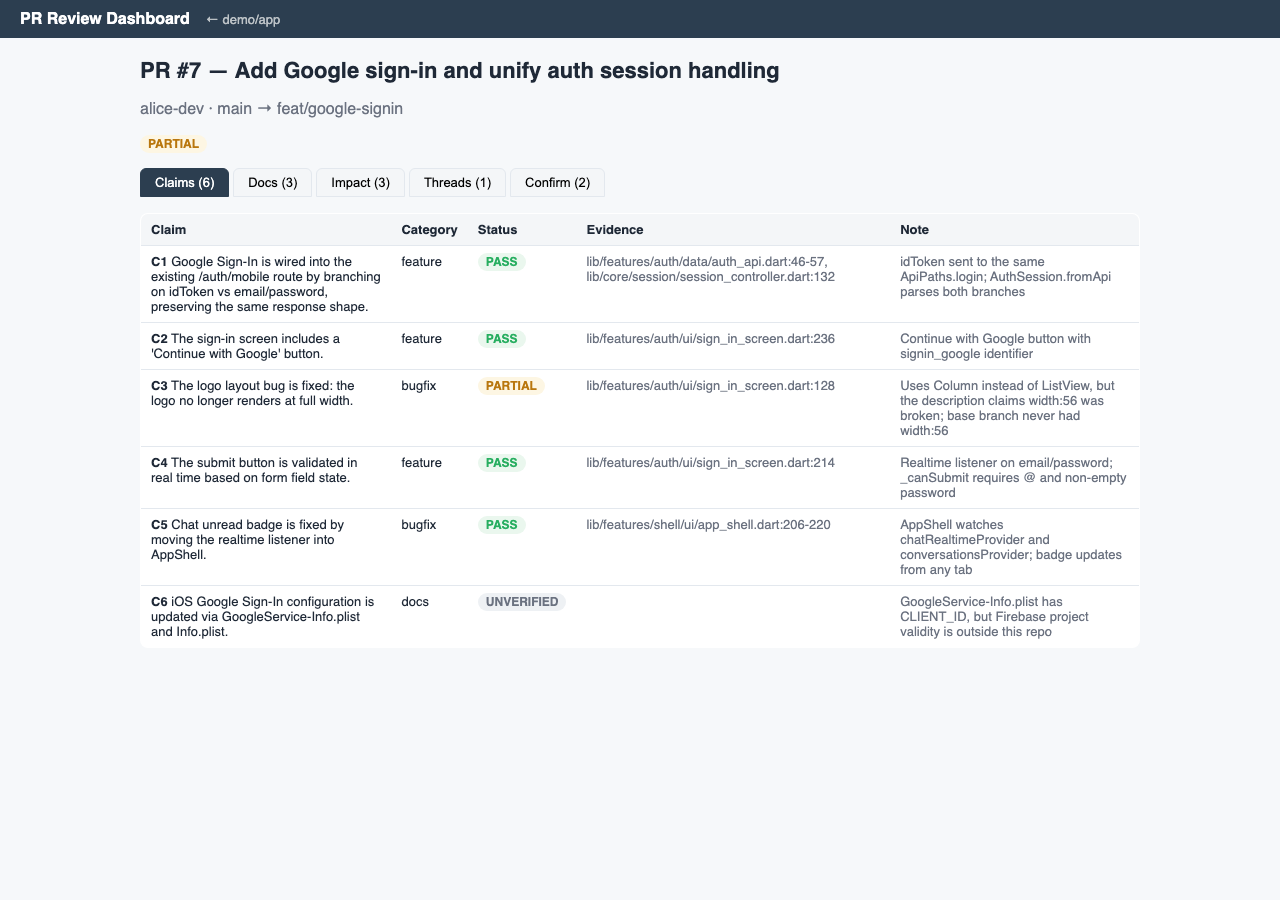
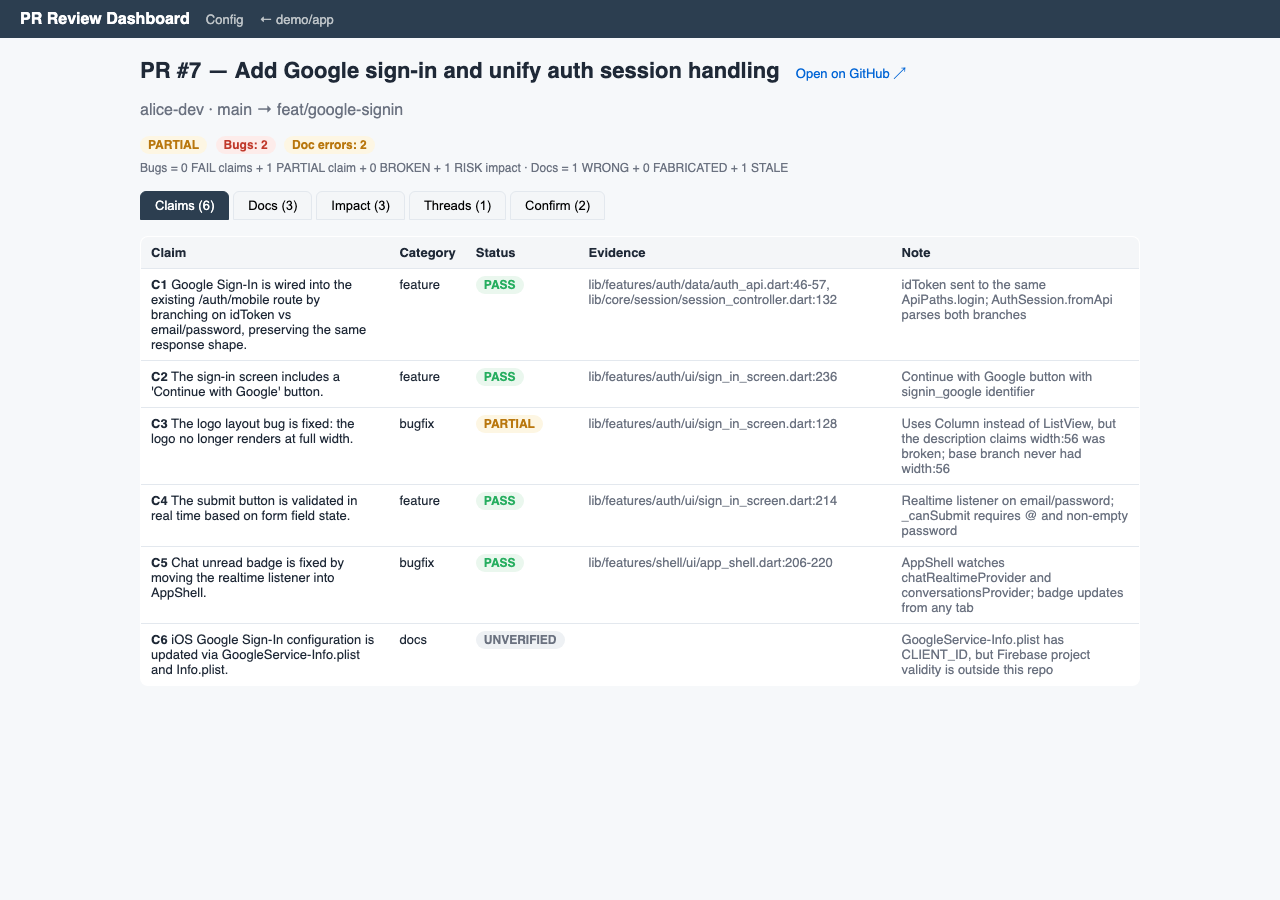
fix: PR page verdict labels, repo list risks wording, refresh screenshots, docs sync

diff --git a/web/templates/pr.html b/web/templates/pr.html
@@ -29,7 +29,10 @@
   <a class="gh-link" target="_blank" rel="noopener"
      href="https://github.com/{{ repo_owner }}/{{ repo_name }}/pull/{{ detail.pr.pr }}">Open on GitHub ↗</a></h1>
 <p class="muted">{{ detail.pr.author }} · {{ detail.pr.base }} → {{ detail.pr.head }}</p>
-<span class="verdict v-{{ detail.pr.verdict|lower }}">{{ detail.pr.verdict }}</span>
+<span class="verdict v-{{ detail.pr.verdict|lower }}">{{
+  {'ACCURATE': 'Description accurate', 'PARTIAL': 'Description partial',
+   'MISLEADING': 'Description misleading', 'NO_CLAIMS': 'No claims'}.get(
+      detail.pr.verdict, detail.pr.verdict) }}</span>
 <span class="verdict v-fail">Risks found: {{ detail.pr.bugs }}</span>
 <span class="verdict v-wrong">Doc errors: {{ detail.pr.doc_errors }}</span>
 <p class="muted breakdown">

diff --git a/docs/index.html b/docs/index.html
@@ -67,7 +67,7 @@ for every claim.</p>
   agent cannot decide. It never guesses</li>
   <li><b>Auto review poller</b> — watches your repos, reviews every new PR and
   re-reviews when the head commit changes</li>
-  <li><b>Web dashboard</b> — per-repo KPIs: bugs, doc errors, verdicts, review
+  <li><b>Web dashboard</b> — per-repo KPIs: risks found, doc errors, verdicts, review
   rounds</li>
 </ul>
 

diff --git a/web/templates/repo_list.html b/web/templates/repo_list.html
@@ -13,7 +13,7 @@
       <h3>{{ r.owner }}/{{ r.repo }}</h3>
       <div class="kpis">
         <span class="kpi"><b>{{ r.prs_total }}</b> PRs</span>
-        <span class="kpi bad"><b>{{ r.bugs_total }}</b> bugs</span>
+        <span class="kpi bad"><b>{{ r.bugs_total }}</b> risks</span>
         <span class="kpi warn"><b>{{ r.doc_errors_total }}</b> doc errors</span>
       </div>
     </a>

diff --git a/docs/guide/how-to-automate-pr-review-with-deepseek.html b/docs/guide/how-to-automate-pr-review-with-deepseek.html
@@ -77,7 +77,7 @@ repos:
 autoreview --daemon</code></pre>
 
 <h2>Step 4 — See the results</h2>
-<p>The web dashboard shows per-repo KPIs: PRs reviewed, bugs found,
+<p>The web dashboard shows per-repo KPIs: PRs reviewed, risks found,
 doc errors, verdict distribution, and review rounds:</p>
 <pre><code>harness-pr-review web   # open http://127.0.0.1:6789</code></pre>
 

diff --git a/docs/designs/2026-08-16-repo-open-prs-design.md b/docs/designs/2026-08-16-repo-open-prs-design.md
@@ -7,12 +7,12 @@
 
 Fix `/repos/{owner}/{repo}` so it lists ALL open PRs (not just reviewed ones),
 shows each PR's review status (not reviewed / reviewing / reviewed N rounds),
-and corrects the Bugs / Doc errors numbers so they match what the PR detail page
+and corrects the Risks / Doc errors numbers so they match what the PR detail page
 shows.
 
 ## Part 1 — Repo page table (all open PRs)
 
-Table columns: `# | Title | Draft | Review status | Bugs | Doc errors`
+Table columns: `# | Title | Draft | Review status | Risks | Doc errors`
 
 - Source of open PRs: `gh api repos/{o}/{r}/pulls?state=open`
   (reuse `autoreview.fetch_open_prs`)
@@ -21,7 +21,7 @@ Table columns: `# | Title | Draft | Review status | Bugs | Doc errors`
   - `Reviewing…` — session dir exists but findings.json missing (in progress)
   - `Reviewed · N rounds` — findings.json exists, N from rounds.txt (fallback 1)
 - Merged/closed PRs with sessions are NOT shown in the table but still counted in KPIs
-- KPI cards stay, label clarified: "Bugs (based on N reviewed PRs)"
+- KPI cards stay, label clarified: "Risks (based on N reviewed PRs)"
 - Draft badge shown; gh failure → table shows reviewed PRs only + "open PRs unavailable" badge
 - Sort: open PRs by number desc (newest first)
 
@@ -35,10 +35,10 @@ Table columns: `# | Title | Draft | Review status | Bugs | Doc errors`
 - Manual run without `--force` (cache hit) → no increment
 
 **Broader metrics (`web/metrics.py`):**
-- `bugs` = claims `FAIL` + `PARTIAL` + impact `BROKEN` + `RISK`
+- `risks` = claims `FAIL` + `PARTIAL` + impact `BROKEN` + `RISK` (internal key: bugs)
 - `doc_errors` = docs `WRONG` + `FABRICATED` + `STALE`
 - Real pr-77 fixture: 10 claims (1 PARTIAL), 4 docs (2 STALE), 5 impact (2 RISK)
-  → bugs = 3, doc_errors = 2
+  → risks = 3, doc_errors = 2
 
 **Data flow:**
 - `metrics.pr_record` adds `rounds` (from rounds.txt, fallback 1)

diff --git a/README.md b/README.md
@@ -39,7 +39,7 @@ status. Live demo data is included — see [Web dashboard](#web-dashboard).
 | ✅ **Requirement impact** | `CHANGED / BROKEN / RISK` analysis per business requirement |
 | ✅ **Human-in-the-loop** | ≤20-word confirmation questions only when uncertain — no guessing |
 | ✅ **Auto review poller** | Reviews new PRs automatically, re-reviews when the head commit changes |
-| ✅ **Web dashboard** | Repo config management, review triggers (Review now), live review logs, metrics: bugs, doc errors, verdicts, review rounds per repo |
+| ✅ **Web dashboard** | Repo config management, review triggers (Review now), live review logs, metrics: risks found, doc errors, verdicts, review rounds per repo |
 | ✅ **Idempotent PR comments** | One English comment per PR, updated in place — never duplicated |
 | ✅ **Traceable** | Every phase writes structured JSON to `sessions/` |
 
@@ -149,7 +149,7 @@ python -m pytest -v
 
 ## Web dashboard
 
-Read-only dashboard for review metrics (PRs reviewed, bugs, doc errors, verdicts
+Read-only dashboard for review metrics (PRs reviewed, risks found, doc errors, verdicts
 per repo). Reads `sessions/` directly — no database.
 
 ```bash
@@ -161,7 +161,7 @@ harness-pr-review web   # open http://127.0.0.1:6789
 Pages: repo list → repo detail (KPIs + verdict donut + PR table) → PR detail
 (tabs: Claims / Docs / Impact / Threads / Confirm). The PR table lists ALL open
 PRs from GitHub with review status (Not reviewed / Reviewing / Reviewed N
-rounds); Bugs counts FAIL + PARTIAL claims and BROKEN + RISK impacts; Doc
+rounds); Risks counts FAIL + PARTIAL claims and BROKEN + RISK impacts; Doc
 errors counts WRONG + FABRICATED + STALE docs. Each open PR row has a
 **Review now** / **Re-review** button that runs the review synchronously using
 the repo's auto-review config (skip-human + post-comment flags from
